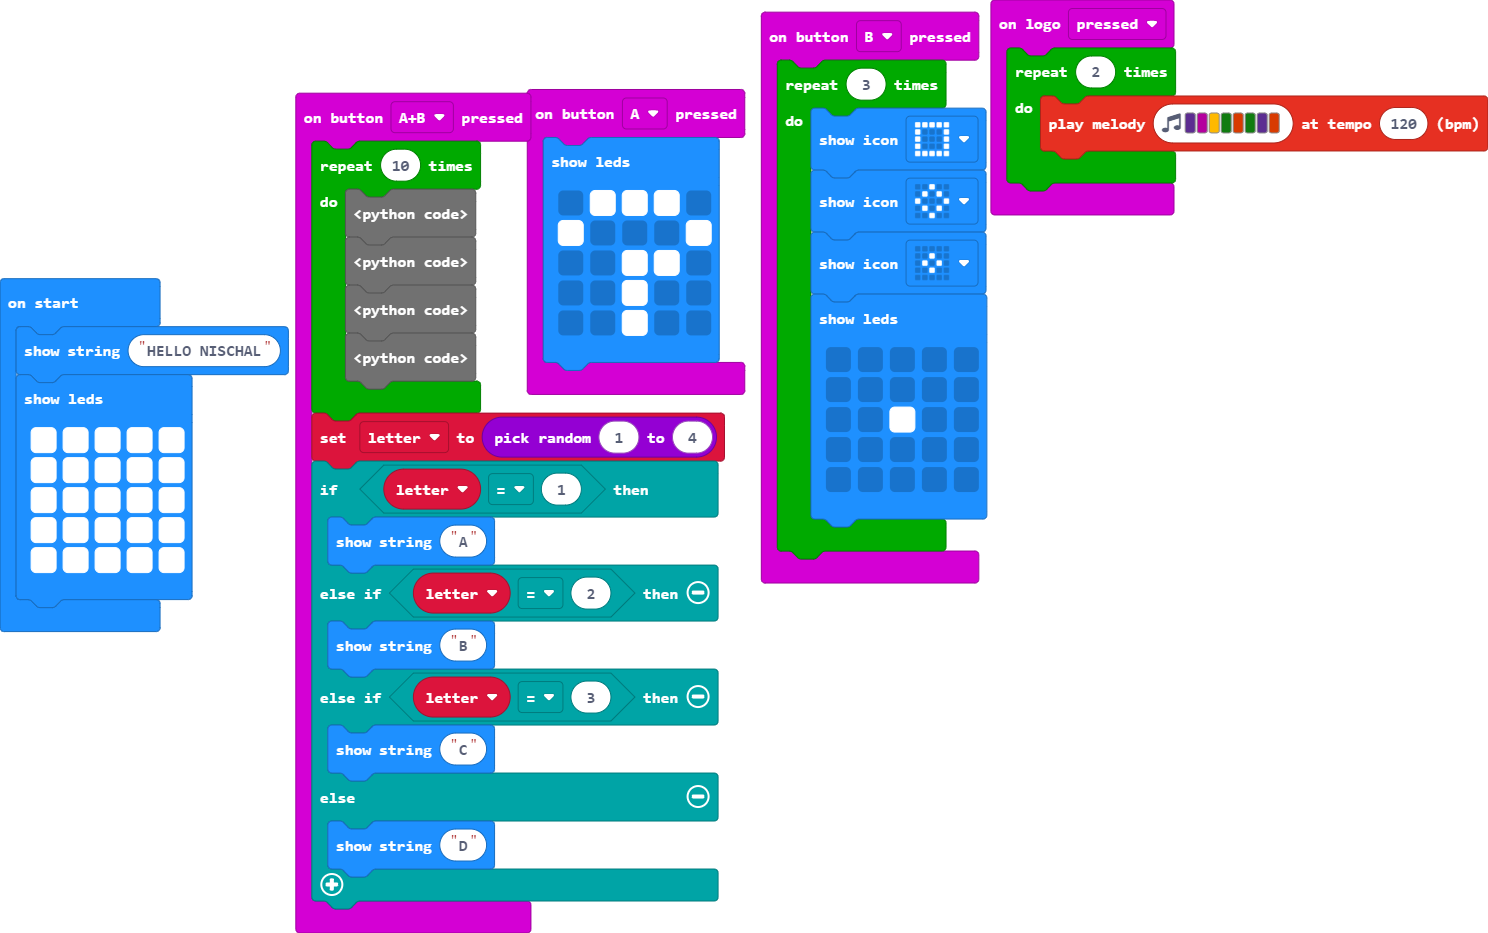
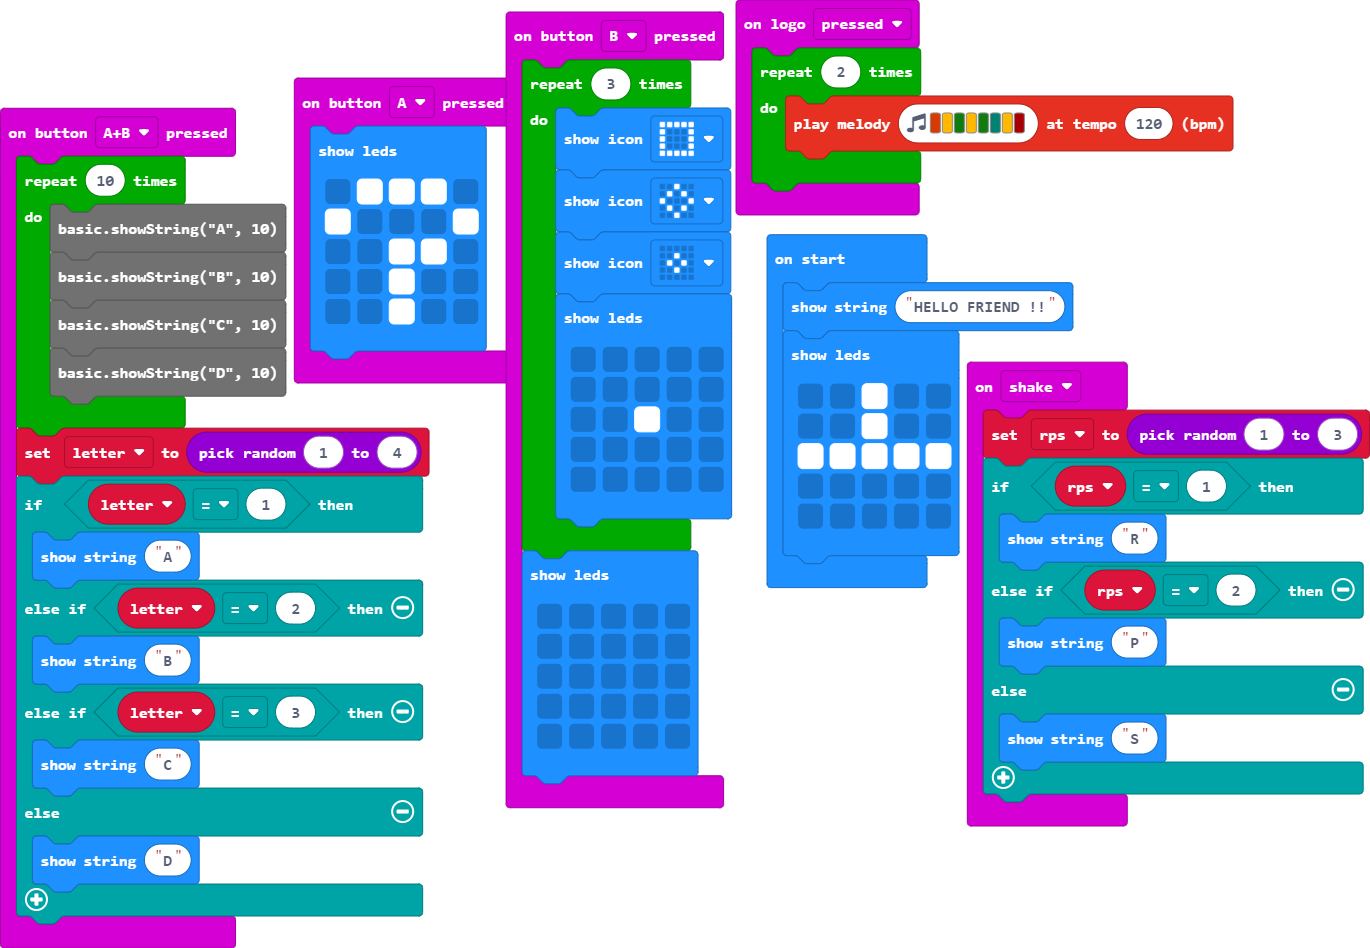
Update main.blocks, main.ts

diff --git a/main.ts b/main.ts
@@ -38,18 +38,36 @@ input.onButtonPressed(Button.B, function () {
             . . . . .
             `)
     }
+    basic.showLeds(`
+        . . . . .
+        . . . . .
+        . . . . .
+        . . . . .
+        . . . . .
+        `)
+})
+input.onGesture(Gesture.Shake, function () {
+    rps = randint(1, 3)
+    if (rps == 1) {
+        basic.showString("R")
+    } else if (rps == 2) {
+        basic.showString("P")
+    } else {
+        basic.showString("S")
+    }
 })
 input.onLogoEvent(TouchButtonEvent.Pressed, function () {
     for (let index = 0; index < 2; index++) {
-        music.playMelody("D C A G B G D B ", 120)
+        music.playMelody("B A G A G F A C5 ", 120)
     }
 })
+let rps = 0
 let letter = 0
-basic.showString("HELLO NISCHAL")
+basic.showString("HELLO FRIEND !!")
 basic.showLeds(`
+    . . # . .
+    . . # . .
     # # # # #
-    # # # # #
-    # # # # #
-    # # # # #
-    # # # # #
+    . . . . .
+    . . . . .
     `)
